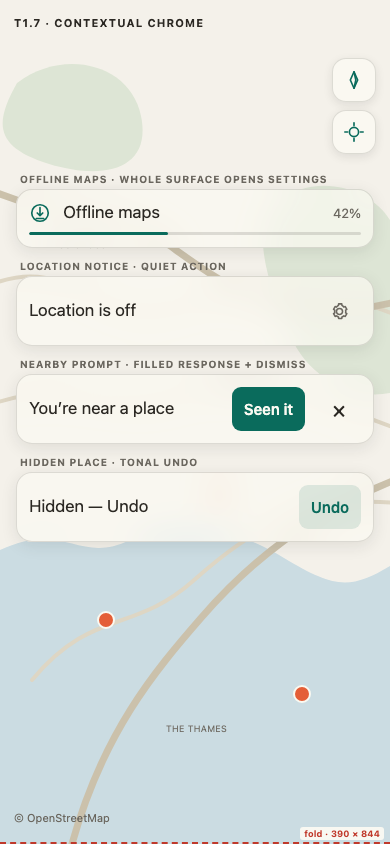
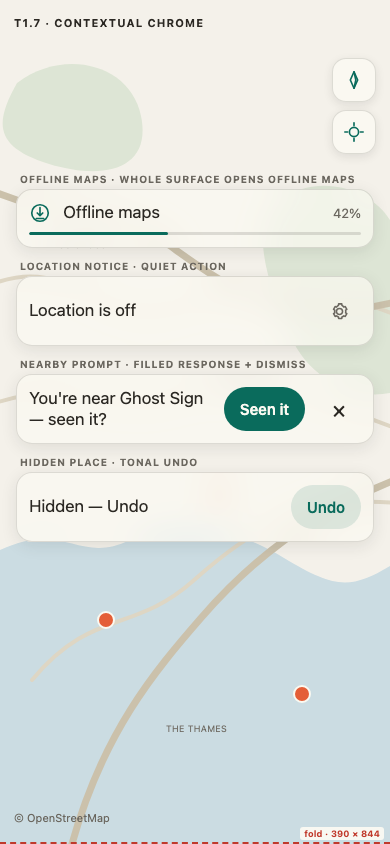
Harden contextual chrome evidence

diff --git a/ios/App/UITests/MakingTracksCoreLoopUITests.swift b/ios/App/UITests/MakingTracksCoreLoopUITests.swift
@@ -466,6 +466,21 @@ final class MakingTracksCoreLoopUITests: XCTestCase {
         XCTAssertGreaterThanOrEqual(element.frame.height, 44, file: file, line: line)
     }
 
+    private func assertContainedInAppFrame(
+        _ element: XCUIElement,
+        in app: XCUIApplication,
+        file: StaticString = #filePath,
+        line: UInt = #line
+    ) {
+        let appFrame = app.windows.firstMatch.exists ? app.windows.firstMatch.frame : app.frame
+        XCTAssertTrue(
+            appFrame.contains(element.frame),
+            "\(element.identifier) frame \(element.frame) escapes app frame \(appFrame)",
+            file: file,
+            line: line
+        )
+    }
+
     func testMapHomeExposesBothDoorsAndScopeOpensLayers() {
         let app = launch(reset: true, pinDiagnostics: true)
 
@@ -2306,8 +2321,8 @@ final class MakingTracksCoreLoopUITests: XCTestCase {
         XCTAssertFalse(app.staticTexts["Ghost Sign"].waitForExistence(timeout: 2))
     }
 
-    func testHiddenToastUndoRestoresHiddenPlace() {
-        let app = launch(reset: true)
+    func testHiddenToastUndoRestoresHiddenPlaceAtAX5() {
+        let app = launch(reset: true, accessibilityTextSize: true)
 
         let map = app.otherElements["map.surface"]
         XCTAssertTrue(map.waitForExistence(timeout: 10))
@@ -2318,7 +2333,10 @@ final class MakingTracksCoreLoopUITests: XCTestCase {
 
         let undoButton = app.buttons["place-card.hide.undo"]
         XCTAssertTrue(undoButton.waitForExistence(timeout: 5))
+        XCTAssertEqual(undoButton.label, "Undo")
+        XCTAssertTrue(undoButton.isHittable)
         assertMinimumInteractiveTarget(undoButton)
+        assertContainedInAppFrame(undoButton, in: app)
         undoButton.tap()
         XCTAssertFalse(app.staticTexts["Hidden — Undo"].waitForExistence(timeout: 2))
 
@@ -2497,8 +2515,12 @@ final class MakingTracksCoreLoopUITests: XCTestCase {
         app.buttons["Close"].tap()
     }
 
-    func testOfflineProgressChipDeepLinksToOfflineMaps() {
-        let activeDownloadApp = launch(reset: true, offlineProgress: 0.42)
+    func testOfflineProgressChipDeepLinksToOfflineMapsAtAX5() {
+        let activeDownloadApp = launch(
+            reset: true,
+            accessibilityTextSize: true,
+            offlineProgress: 0.42
+        )
         let activeMap = activeDownloadApp.otherElements["map.surface"]
         XCTAssertTrue(activeMap.waitForExistence(timeout: 10))
 
@@ -2506,7 +2528,9 @@ final class MakingTracksCoreLoopUITests: XCTestCase {
         XCTAssertTrue(progressChip.waitForExistence(timeout: 5))
         XCTAssertEqual(progressChip.label, "Offline maps download")
         XCTAssertEqual(progressChip.value as? String, "42%")
+        XCTAssertTrue(progressChip.isHittable)
         assertMinimumInteractiveTarget(progressChip)
+        assertContainedInAppFrame(progressChip, in: activeDownloadApp)
         progressChip.tap()
 
         XCTAssertTrue(activeDownloadApp.staticTexts["Offline maps"].waitForExistence(timeout: 5))
@@ -2519,6 +2543,24 @@ final class MakingTracksCoreLoopUITests: XCTestCase {
         XCTAssertTrue(activeDownloadApp.buttons["world.row.settings"].exists)
         XCTAssertTrue(activeDownloadApp.buttons["world.row.about"].exists)
         activeDownloadApp.buttons["Close"].tap()
+    }
+
+    func testOfflineProgressChipAnnouncesWaitingConnectivity() {
+        let app = launch(
+            reset: true,
+            accessibilityTextSize: true,
+            offlineProgress: 0.42,
+            offlineWaiting: true
+        )
+        XCTAssertTrue(app.otherElements["map.surface"].waitForExistence(timeout: 10))
+
+        let progressChip = app.buttons["map.download-progress"]
+        XCTAssertTrue(progressChip.waitForExistence(timeout: 5))
+        XCTAssertEqual(progressChip.label, "Offline maps download, Waiting for Wi-Fi")
+        XCTAssertEqual(progressChip.value as? String, "42%")
+        XCTAssertTrue(progressChip.isHittable)
+        assertMinimumInteractiveTarget(progressChip)
+        assertContainedInAppFrame(progressChip, in: app)
     }
 
     func testSettingsThemePickerSelectsRealTheme() {
@@ -2933,8 +2975,12 @@ final class MakingTracksCoreLoopUITests: XCTestCase {
         XCTAssertFalse(actionBar.buttons["place-card.hide"].exists)
     }
 
-    func testLocateMeChromeExplainsWhenLocationIsDenied() throws {
-        let app = launch(reset: true, locationDenied: true)
+    func testLocateMeChromeExplainsWhenLocationIsDeniedAtAX5() throws {
+        let app = launch(
+            reset: true,
+            locationDenied: true,
+            accessibilityTextSize: true
+        )
 
         let map = app.otherElements["map.surface"]
         XCTAssertTrue(map.waitForExistence(timeout: 10))
@@ -2943,16 +2989,22 @@ final class MakingTracksCoreLoopUITests: XCTestCase {
         XCTAssertTrue(app.staticTexts["Location is off"].waitForExistence(timeout: 5))
         let locationSettings = app.buttons["map.location-settings"]
         XCTAssertTrue(locationSettings.waitForExistence(timeout: 5))
+        XCTAssertEqual(locationSettings.label, "Settings")
+        XCTAssertTrue(locationSettings.isHittable)
         assertMinimumInteractiveTarget(locationSettings)
+        assertContainedInAppFrame(locationSettings, in: app)
         attachScreenshot(named: "map-location-off")
+        locationSettings.tap()
+        XCTAssertTrue(app.wait(for: .runningBackground, timeout: 5))
     }
 
-    func testLocateMeShowsNearbyPromptForFixturePlace() {
+    func testLocateMeShowsNearbyPromptForFixturePlaceAtAX5() {
         let app = launch(
             reset: true,
             simulatedLocationAuthorization: true,
             simulatedLatitude: 3.1402,
-            simulatedLongitude: 101.6902
+            simulatedLongitude: 101.6902,
+            accessibilityTextSize: true
         )
 
         let map = app.otherElements["map.surface"]
@@ -2969,8 +3021,15 @@ final class MakingTracksCoreLoopUITests: XCTestCase {
         let dismissButton = app.buttons["map.nearby-prompt.dismiss"]
         XCTAssertTrue(seenButton.waitForExistence(timeout: 5))
         XCTAssertTrue(dismissButton.waitForExistence(timeout: 5))
+        XCTAssertEqual(seenButton.label, "Seen it")
+        XCTAssertEqual(dismissButton.label, "Dismiss nearby prompt")
+        XCTAssertTrue(seenButton.isHittable)
+        XCTAssertTrue(dismissButton.isHittable)
         assertMinimumInteractiveTarget(seenButton)
         assertMinimumInteractiveTarget(dismissButton)
+        assertContainedInAppFrame(seenButton, in: app)
+        assertContainedInAppFrame(dismissButton, in: app)
+        assertNoFrameIntersection(seenButton, dismissButton)
         seenButton.tap()
 
         XCTAssertFalse(nearbyPrompt.waitForExistence(timeout: 2))
@@ -3396,6 +3455,7 @@ final class MakingTracksCoreLoopUITests: XCTestCase {
         accessibilityTextSize: Bool = false,
         seedUserList: Bool = false,
         offlineProgress: Double? = nil,
+        offlineWaiting: Bool = false,
         resetTheme: Bool = false,
         theme: String? = nil,
         pinSizeMultiplier: Double? = nil,
@@ -3495,6 +3555,9 @@ final class MakingTracksCoreLoopUITests: XCTestCase {
         if let offlineProgress {
             app.launchArguments.append("--ui-testing-offline-progress")
             app.launchArguments.append(String(offlineProgress))
+        }
+        if offlineWaiting {
+            app.launchArguments.append("--ui-testing-offline-waiting")
         }
         if resetTheme {
             app.launchArguments.append("--ui-testing-reset-theme")

diff --git a/docs/design/design-system/t1.7-contextual-chrome-ax.html b/docs/design/design-system/t1.7-contextual-chrome-ax.html
@@ -13,9 +13,9 @@
   .proof-title { position:absolute; z-index:1; top:14px; left:14px; color:var(--ink); font-size:11px; font-weight:700; letter-spacing:.09em; text-transform:uppercase; }
   .stack { position:absolute; z-index:2; top:43px; left:12px; right:12px; display:grid; gap:7px; }
   .state-label { margin-left:4px; color:var(--muted); font-size:9px; font-weight:700; letter-spacing:.08em; text-transform:uppercase; }
-  .toast { display:grid; gap:10px; padding:10px 12px; border:1px solid var(--hairline); border-radius:16px; background:rgba(251,250,242,.78); box-shadow:0 3px 12px rgba(43,40,35,.1); -webkit-backdrop-filter:blur(16px) saturate(120%); backdrop-filter:blur(16px) saturate(120%); }
+  .toast { display:grid; gap:10px; padding:12px; border:1px solid var(--hairline); border-radius:16px; background:rgba(251,250,242,.78); box-shadow:0 3px 12px rgba(43,40,35,.1); -webkit-backdrop-filter:blur(16px) saturate(120%); backdrop-filter:blur(16px) saturate(120%); }
   .row { display:flex; align-items:flex-start; gap:12px; min-width:0; }.message { min-width:0; flex:1; font-size:21px; line-height:1.12; }.icon { flex:none; width:25px; height:25px; color:var(--accent); }
-  .action { min-width:44px; min-height:44px; display:grid; place-items:center; border-radius:9px; font-size:18px; font-weight:600; white-space:nowrap; }.quiet { color:var(--muted); }.filled { padding:0 11px; background:var(--accent); color:var(--accent-contrast); }.tonal { padding:0 11px; background:rgba(10,107,92,.12); color:var(--accent); }.dismiss { color:var(--ink); font-size:25px; }
+  .action { min-width:44px; min-height:44px; display:grid; place-items:center; border-radius:999px; font-size:18px; font-weight:600; white-space:nowrap; }.quiet { color:var(--muted); }.filled { padding:0 16px; background:var(--accent); color:var(--accent-contrast); }.tonal { padding:0 16px; background:rgba(10,107,92,.12); color:var(--accent); }.dismiss { color:var(--ink); font-size:25px; }
   .fallback { display:grid; gap:12px; }.fallback > .action { justify-self:start; }.fallback-actions { display:flex; gap:12px; align-items:center; }.progress { display:grid; gap:4px; }.count { color:var(--muted); font-size:16px; line-height:1.1; }.track { height:3px; overflow:hidden; border-radius:99px; background:var(--hairline); }.fill { width:42%; height:3px; border-radius:99px; background:var(--accent); }
   .fallback-note { color:var(--muted); font-size:10px; font-weight:700; letter-spacing:.06em; text-transform:uppercase; }.attribution { position:absolute; z-index:1; left:14px; bottom:20px; color:var(--muted); font-size:11px; }.fold { position:absolute; z-index:4; left:0; right:0; bottom:0; border-top:2px dashed #C0392B; }.fold-label { position:absolute; z-index:4; right:6px; bottom:4px; padding:1px 4px; border-radius:3px; background:rgba(251,250,242,.94); color:#C0392B; font-size:9px; font-weight:700; } svg{overflow:visible}.stroke{fill:none;stroke:currentColor;stroke-linecap:round;stroke-linejoin:round;stroke-width:1.8}
 </style>
@@ -24,10 +24,10 @@
 <main class="canvas" aria-label="Accessibility-size Snow map proof of all contextual chrome states and stacked fallback">
   <div class="map" aria-hidden="true"></div><div class="proof-title">T1.7 · contextual chrome · AXXXL</div>
   <div class="stack">
-    <section><div class="state-label">Offline maps · whole-surface affordance</div><div class="toast"><div class="row"><span class="icon"><svg width="25" height="25" viewBox="0 0 24 24"><circle class="stroke" cx="12" cy="12" r="9"/><path class="stroke" d="M12 6v9m-3-3 3 3 3-3M8 18h8"/></svg></span><div class="message">Offline maps for the old riverside warehouses</div></div><div class="progress"><div class="count">42%</div><div class="track"><div class="fill"></div></div></div></div></section>
+    <section><div class="state-label">Offline maps · whole-surface affordance</div><div class="toast"><div class="row"><span class="icon"><svg width="25" height="25" viewBox="0 0 24 24"><circle class="stroke" cx="12" cy="12" r="9"/><path class="stroke" d="M12 6v9m-3-3 3 3 3-3M8 18h8"/></svg></span><div class="message">Offline maps Waiting for Wi-Fi</div></div><div class="progress"><div class="count">42%</div><div class="track"><div class="fill"></div></div></div></div></section>
     <section><div class="state-label">Location notice · quiet 44pt action</div><div class="toast"><div class="row"><div class="message">Location is off</div><div class="action quiet" aria-label="Settings"><svg width="21" height="21" viewBox="0 0 24 24"><path class="stroke" d="M12 8.5a3.5 3.5 0 1 0 0 7 3.5 3.5 0 0 0 0-7Z"/><path class="stroke" d="m19 13.5 1.4 1-1.8 3.1-1.6-.6a7.5 7.5 0 0 1-2.2 1.3l-.2 1.7h-3.6l-.2-1.7A7.5 7.5 0 0 1 8.6 17L7 17.6l-1.8-3.1 1.4-1a7.7 7.7 0 0 1 0-3l-1.4-1L7 6.4l1.6.6A7.5 7.5 0 0 1 10.8 5l.2-1.7h3.6l.2 1.7A7.5 7.5 0 0 1 17 7l1.6-.6 1.8 3.1-1.4 1a7.7 7.7 0 0 1 0 3Z"/></svg></div></div></div></section>
-    <section><div class="state-label">Nearby prompt · ViewThatFits stacked fallback</div><div class="toast fallback"><div class="message">You&rsquo;re near the old signal house on Riverside Walk.</div><div class="action filled">Seen it</div><div class="action dismiss" aria-label="Dismiss nearby prompt">×</div><div class="fallback-note">Controls stack below long copy · 44pt minimum</div></div></section>
-    <section><div class="state-label">Hidden place · tonal undo fallback</div><div class="toast fallback"><div class="message">Hidden — Undo hiding this place from your map</div><div class="fallback-actions"><div class="action tonal">Undo</div></div></div></section>
+    <section><div class="state-label">Nearby prompt · ViewThatFits stacked fallback</div><div class="toast fallback"><div class="message">You&#39;re near the old signal house on Riverside Walk — seen it?</div><div class="action filled">Seen it</div><div class="action dismiss" aria-label="Dismiss nearby prompt">×</div><div class="fallback-note">Controls stack below long copy · 44pt minimum</div></div></section>
+    <section><div class="state-label">Hidden place · tonal undo fallback</div><div class="toast fallback"><div class="message">Hidden — Undo</div><div class="fallback-actions"><div class="action tonal">Undo</div></div></div></section>
   </div>
   <div class="attribution">© OpenStreetMap</div><div class="fold"></div><div class="fold-label">fold · 390 × 844</div>
 </main>

diff --git a/docs/design/design-system/t1.7-contextual-chrome.html b/docs/design/design-system/t1.7-contextual-chrome.html
@@ -33,10 +33,10 @@
   .toast-row { display: flex; align-items: center; gap: 12px; min-width: 0; }
   .message { min-width: 0; flex: 1; font-size: 17px; line-height: 1.25; }
   .icon { flex: none; display: grid; width: 22px; height: 22px; place-items: center; color: var(--accent); }
-  .action { flex: none; min-width: 44px; height: 44px; display: grid; place-items: center; border-radius: 9px; font-size: 15px; font-weight: 600; white-space: nowrap; }
+  .action { flex: none; min-width: 44px; height: 44px; display: grid; place-items: center; border-radius: 999px; font-size: 15px; font-weight: 600; white-space: nowrap; }
   .quiet { color: var(--muted); }
-  .filled { padding: 0 12px; background: var(--accent); color: var(--accent-contrast); }
-  .tonal { padding: 0 12px; background: rgba(10,107,92,.12); color: var(--accent); }
+  .filled { padding: 0 16px; background: var(--accent); color: var(--accent-contrast); }
+  .tonal { padding: 0 16px; background: rgba(10,107,92,.12); color: var(--accent); }
   .dismiss { color: var(--ink); font-size: 23px; font-weight: 400; }
   .download { display: grid; gap: 8px; }
   .progress-head { display: flex; justify-content: space-between; align-items: baseline; gap: 8px; }
@@ -69,7 +69,7 @@
   <div class="corner locate" aria-hidden="true"><svg width="22" height="22" viewBox="0 0 24 24"><circle class="stroke" cx="12" cy="12" r="5"/><path class="stroke" d="M12 2v3m0 14v3M2 12h3m14 0h3"/></svg></div>
   <div class="toast-stack">
     <section class="state" aria-label="Offline maps download state">
-      <div class="state-label">Offline maps · whole surface opens settings</div>
+      <div class="state-label">Offline maps · whole surface opens Offline maps</div>
       <div class="toast download">
         <div class="toast-row"><span class="icon"><svg width="22" height="22" viewBox="0 0 24 24"><circle class="stroke" cx="12" cy="12" r="9"/><path class="stroke" d="M12 6v9m-3-3 3 3 3-3M8 18h8"/></svg></span><div class="progress-head message"><span>Offline maps</span><span class="count">42%</span></div></div>
         <div class="track"><div class="fill"></div></div>
@@ -81,7 +81,7 @@
     </section>
     <section class="state" aria-label="Nearby prompt state">
       <div class="state-label">Nearby prompt · filled response + dismiss</div>
-      <div class="toast"><div class="toast-row"><div class="message">You&rsquo;re near a place</div><div class="action filled">Seen it</div><div class="action dismiss" aria-label="Dismiss nearby prompt">×</div></div></div>
+      <div class="toast"><div class="toast-row"><div class="message">You&#39;re near Ghost Sign — seen it?</div><div class="action filled">Seen it</div><div class="action dismiss" aria-label="Dismiss nearby prompt">×</div></div></div>
     </section>
     <section class="state" aria-label="Hidden undo state">
       <div class="state-label">Hidden place · tonal undo</div>

diff --git a/ios/App/Sources/MakingTracksApp.swift b/ios/App/Sources/MakingTracksApp.swift
@@ -35,6 +35,7 @@ struct MakingTracksApp: App {
     private static let simulatedLatitude = argumentValue("--ui-testing-location-latitude").flatMap(Double.init)
     private static let simulatedLongitude = argumentValue("--ui-testing-location-longitude").flatMap(Double.init)
     private static let uiTestingOfflineProgress = argumentValue("--ui-testing-offline-progress").flatMap(Double.init)
+    private static let uiTestingOfflineWaiting = arguments.contains("--ui-testing-offline-waiting")
     private static let uiTestingCoverageBBoxes = coverageBBoxArguments()
     private static let debugHideFixtureChrome = arguments.contains("--ui-testing-hide-fixture-chrome")
     private static let debugUseDenseFixturePins = arguments.contains("--ui-testing-dense-pins")
@@ -57,6 +58,7 @@ struct MakingTracksApp: App {
     private static let simulatedLatitude: Double? = nil
     private static let simulatedLongitude: Double? = nil
     private static let uiTestingOfflineProgress: Double? = nil
+    private static let uiTestingOfflineWaiting = false
     private static let uiTestingCoverageBBoxes: [CoverageBBox] = []
     private static let debugHideFixtureChrome = false
     private static let debugUseDenseFixturePins = false
@@ -348,7 +350,10 @@ struct MakingTracksApp: App {
 
     private static var offlineDownloadProgress: OfflineDownloadProgress? {
         guard isFixtureMap, let uiTestingOfflineProgress else { return nil }
-        return OfflineDownloadProgress(fractionComplete: uiTestingOfflineProgress)
+        return OfflineDownloadProgress(
+            fractionComplete: uiTestingOfflineProgress,
+            isWaitingForConnectivity: uiTestingOfflineWaiting
+        )
     }
 
     private static func resetUITestingThemeIfNeeded() {

diff --git a/ios/App/Sources/Map/MapContextualChrome.swift b/ios/App/Sources/Map/MapContextualChrome.swift
@@ -11,7 +11,9 @@ struct MapDownloadProgressToast: View {
                 ? "Offline maps \(progress.statusText)"
                 : "Offline maps",
             surfaceAction: MaterialToastSurfaceAction(
-                accessibilityLabel: "Offline maps download",
+                accessibilityLabel: progress.isWaitingForConnectivity
+                    ? "Offline maps download, \(progress.statusText)"
+                    : "Offline maps download",
                 accessibilityHint: "Opens Offline maps",
                 accessibilityIdentifier: "map.download-progress",
                 action: onOpenOfflineMaps

diff --git a/docs/superpowers/phases/phase-1/tasks.md b/docs/superpowers/phases/phase-1/tasks.md
@@ -449,7 +449,7 @@ Full gate required, plus renders of the map home with both doors and each door o
 - **Depends on:** T1.6
 - **Owner:** codex1
 - **Review tier:** `sourcery` + `opus`
-- **Status:** tests green — host 454/0; release gate 202 app-unit + 75 UI, 0 failures
+- **Status:** tests green — critic fixes implemented; focused and full re-verification queued
 - **Contracts consumed:** T1.1 tokens, T1.3 buttons (the nearby prompt's embedded action), T1.4 toast/pill family and progress component.
 
 **Two acceptance additions inherited from T1.4.** T1.4 built the family but mounts nothing — its diff touches no file under `ios/App/` — so two obligations that can only be proved at a real call site land here, on the task that does the mounting. They are anchored in this row rather than left in a review thread, which is what makes the deferral compliant rather than an unowned one:
